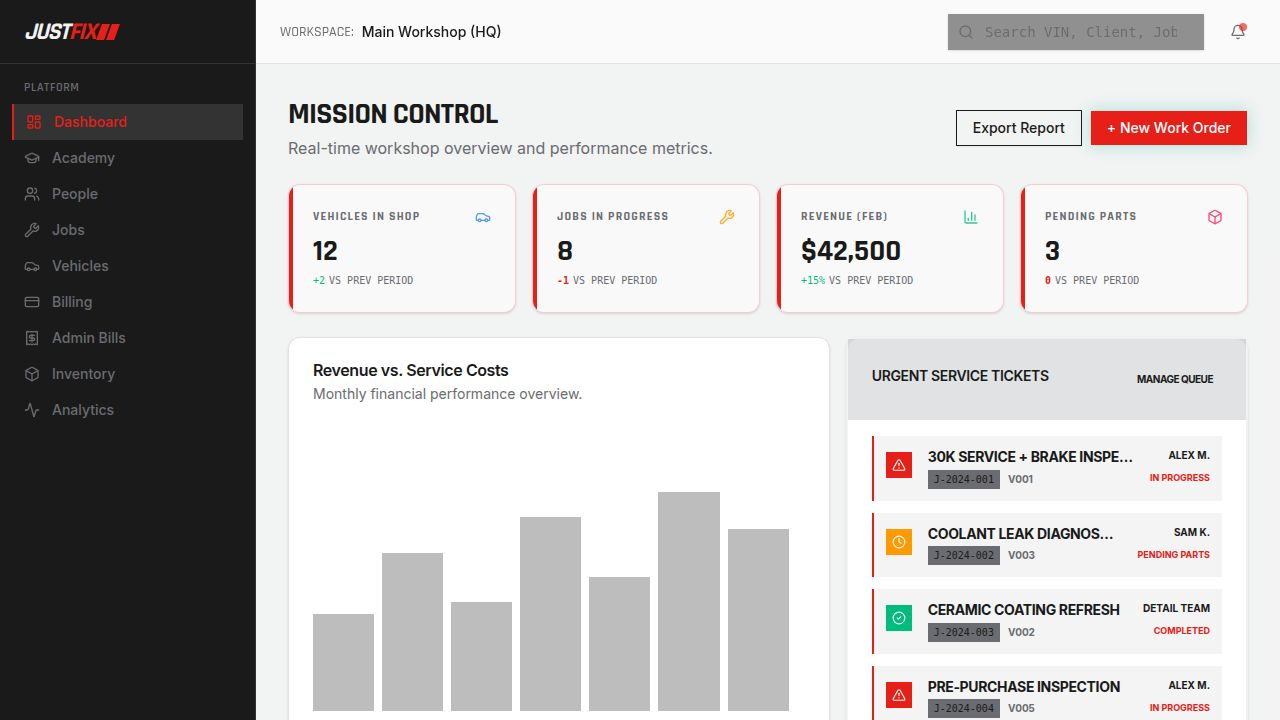
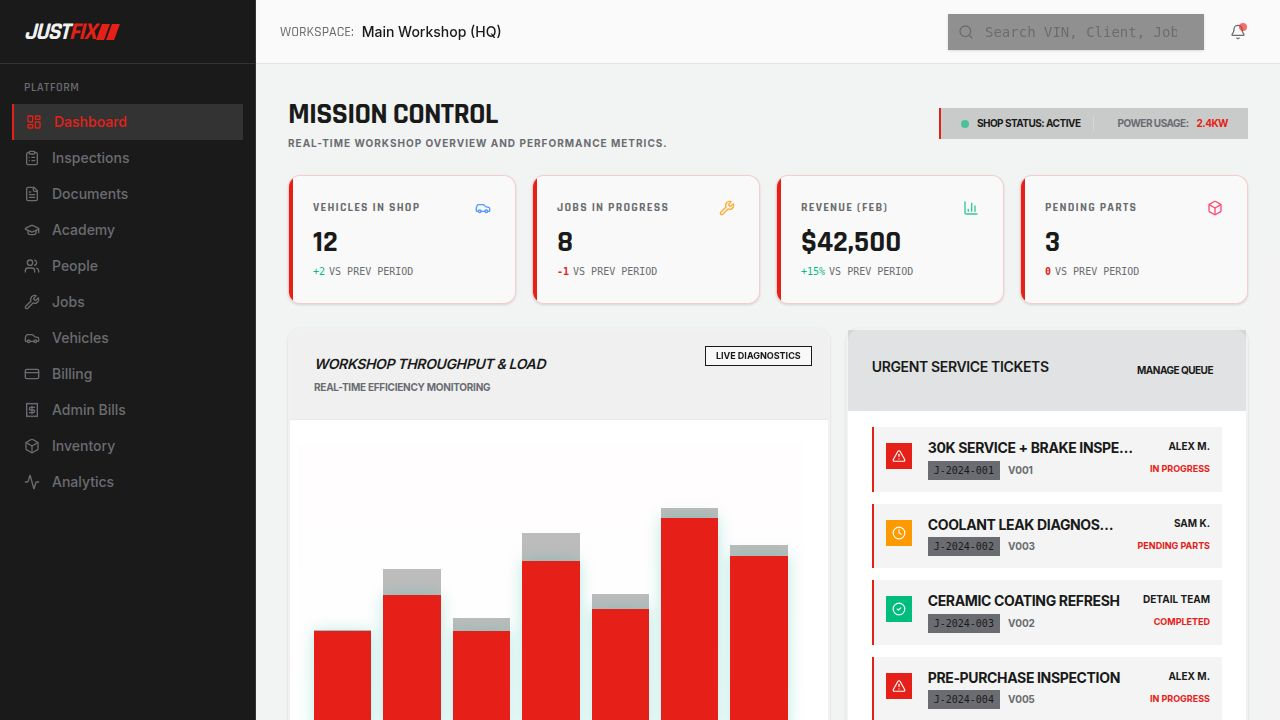
Add digital inspection and document center modules to the system
Introduce new routes and components for Digital Vehicle Inspection (DVI) and Document Center, updating navigation and mock data accordingly.

Replit-Commit-Author: Agent
Replit-Commit-Session-Id: 3f79b57c-9482-46df-af00-5a802f8ab600
Replit-Commit-Checkpoint-Type: full_checkpoint
Replit-Commit-Event-Id: 972d4682-d815-4166-956a-202cfc8e47ad
Replit-Commit-Screenshot-Url: https://storage.googleapis.com/screenshot-production-us-central1/4fc21412-984e-488c-b4b4-e12829776554/3f79b57c-9482-46df-af00-5a802f8ab600/Tv387pn
Replit-Helium-Checkpoint-Created: true

diff --git a/client/src/pages/DVI.tsx b/client/src/pages/DVI.tsx
@@ -1,0 +1,96 @@
+import Layout from "@/components/Layout";
+import { Card, CardContent, CardHeader, CardTitle } from "@/components/ui/card";
+import { Button } from "@/components/ui/button";
+import { Badge } from "@/components/ui/badge";
+import { CheckCircle2, AlertCircle, Camera, Smartphone, Send, ShieldCheck } from "lucide-react";
+
+export default function DVI() {
+  const sections = [
+    { title: "Battery & Electrical", status: "Critical", icon: AlertCircle, items: ["Battery Health", "Alternator Output", "Starter Motor"] },
+    { title: "Lighting System", status: "Good", icon: CheckCircle2, items: ["Headlights", "Indicators", "Brake Lights"] },
+    { title: "Diagnostics", status: "Attention", icon: AlertCircle, items: ["Fault Codes", "Wiring Harness", "Sensor Status"] },
+  ];
+
+  return (
+    <Layout>
+      <div className="flex flex-col md:flex-row md:items-center justify-between gap-4">
+        <div>
+          <h1 className="text-3xl font-display font-bold text-foreground text-glow-red">Digital Inspection</h1>
+          <p className="text-muted-foreground mt-1 uppercase text-[10px] font-bold tracking-widest italic">Technician: Alex Miller • Job: J-2024-001</p>
+        </div>
+        <div className="flex items-center gap-2">
+          <Button variant="outline" className="h-9 industrial-border border-primary/50 text-primary">
+            <Camera className="w-4 h-4 mr-2" /> Capture Media
+          </Button>
+          <Button className="h-9 industrial-border bg-primary text-primary-foreground">
+            <Send className="w-4 h-4 mr-2" /> Send to Client
+          </Button>
+        </div>
+      </div>
+
+      <div className="grid gap-6 md:grid-cols-3">
+        <div className="md:col-span-2 space-y-4">
+          {sections.map((section, i) => (
+            <Card key={i} className="industrial-border overflow-hidden">
+              <CardHeader className="bg-muted/30 flex flex-row items-center justify-between p-4 border-b border-border/50">
+                <CardTitle className="text-sm font-black flex items-center gap-2">
+                  <section.icon className={`w-4 h-4 ${section.status === 'Good' ? 'text-emerald-500' : 'text-primary'}`} />
+                  {section.title.toUpperCase()}
+                </CardTitle>
+                <Badge className={section.status === 'Good' ? 'bg-emerald-500' : 'bg-primary'}>
+                  {section.status}
+                </Badge>
+              </CardHeader>
+              <CardContent className="p-0">
+                <div className="divide-y divide-border/50">
+                  {section.items.map((item, j) => (
+                    <div key={j} className="p-4 flex items-center justify-between hover:bg-muted/5 transition-colors">
+                      <span className="text-sm font-bold uppercase tracking-tight">{item}</span>
+                      <div className="flex gap-2">
+                        <Button size="sm" variant="outline" className="h-7 text-[10px] border-emerald-500/50 text-emerald-500 hover:bg-emerald-500 hover:text-white">GOOD</Button>
+                        <Button size="sm" variant="outline" className="h-7 text-[10px] border-amber-500/50 text-amber-500 hover:bg-amber-500 hover:text-white">MAYBE</Button>
+                        <Button size="sm" variant="outline" className="h-7 text-[10px] border-primary/50 text-primary hover:bg-primary hover:text-white">FAIL</Button>
+                      </div>
+                    </div>
+                  ))}
+                </div>
+              </CardContent>
+            </Card>
+          ))}
+        </div>
+
+        <div className="space-y-4">
+          <Card className="industrial-border bg-black text-white">
+            <CardHeader>
+              <CardTitle className="text-xs font-black text-primary">MEDIA ATTACHMENTS</CardTitle>
+            </CardHeader>
+            <CardContent className="grid grid-cols-2 gap-2">
+              <div className="aspect-square bg-white/10 flex items-center justify-center border border-white/20 group cursor-pointer hover:border-primary transition-all">
+                <Camera className="w-6 h-6 opacity-20 group-hover:opacity-100 group-hover:text-primary transition-all" />
+              </div>
+              <div className="aspect-square bg-white/10 flex items-center justify-center border border-white/20 group cursor-pointer hover:border-primary transition-all">
+                <Camera className="w-6 h-6 opacity-20 group-hover:opacity-100 group-hover:text-primary transition-all" />
+              </div>
+            </CardContent>
+          </Card>
+
+          <Card className="industrial-border border-primary">
+            <CardHeader className="bg-primary/10">
+              <CardTitle className="text-xs font-black text-primary">CLIENT APPROVAL HUB</CardTitle>
+            </CardHeader>
+            <CardContent className="p-4 space-y-4">
+              <div className="flex items-center gap-3 p-3 bg-secondary/10 border-l-2 border-l-primary">
+                <Smartphone className="w-4 h-4 text-primary" />
+                <p className="text-[10px] font-bold uppercase leading-tight">SMS Approval Link Active</p>
+              </div>
+              <div className="flex items-center gap-3 p-3 bg-secondary/10 border-l-2 border-l-emerald-500">
+                <ShieldCheck className="w-4 h-4 text-emerald-500" />
+                <p className="text-[10px] font-bold uppercase leading-tight">Insurance Claim Pre-Authorized</p>
+              </div>
+            </CardContent>
+          </Card>
+        </div>
+      </div>
+    </Layout>
+  );
+}

diff --git a/client/src/pages/DocumentCenter.tsx b/client/src/pages/DocumentCenter.tsx
@@ -1,0 +1,85 @@
+import Layout from "@/components/Layout";
+import { Card, CardContent, CardHeader, CardTitle } from "@/components/ui/card";
+import { Button } from "@/components/ui/button";
+import { FileText, Download, ShieldCheck, Award, Share2 } from "lucide-react";
+
+export default function DocumentCenter() {
+  const docs = [
+    { title: "Technician Certification - Level 1", student: "Jordan Lee", date: "2024-02-10", type: "Certificate", icon: Award },
+    { title: "Internship Completion Letter", student: "Taylor Reed", date: "2024-02-12", type: "Document", icon: FileText },
+    { title: "Insurance Compliance Audit", student: "Admin", date: "2024-02-14", type: "Compliance", icon: ShieldCheck },
+  ];
+
+  return (
+    <Layout>
+      <div className="flex flex-col md:flex-row md:items-center justify-between gap-4">
+        <div>
+          <h1 className="text-3xl font-display font-bold text-foreground">Document Center</h1>
+          <p className="text-muted-foreground mt-1 uppercase text-[10px] font-bold tracking-widest">Digital Archive & Automated Document Generation</p>
+        </div>
+      </div>
+
+      <div className="grid gap-6">
+        <Card className="industrial-border">
+          <CardHeader className="bg-muted/30 border-b border-border/50">
+            <CardTitle className="text-sm font-black italic">RECENTLY GENERATED DOCUMENTS</CardTitle>
+          </CardHeader>
+          <CardContent className="p-0">
+            <div className="divide-y divide-border/50">
+              {docs.map((doc, i) => (
+                <div key={i} className="p-4 flex items-center justify-between hover:bg-muted/5 transition-colors">
+                  <div className="flex items-center gap-4">
+                    <div className="w-10 h-10 bg-secondary flex items-center justify-center border-l-2 border-l-primary">
+                      <doc.icon className="w-5 h-5 opacity-50" />
+                    </div>
+                    <div>
+                      <p className="font-bold text-sm uppercase tracking-tight">{doc.title}</p>
+                      <p className="text-[10px] text-muted-foreground font-mono">{doc.student} • {doc.date}</p>
+                    </div>
+                  </div>
+                  <div className="flex items-center gap-2">
+                    <Button variant="outline" size="sm" className="h-8 text-[10px] font-black uppercase tracking-tighter hover:bg-primary hover:text-white">
+                      <Download className="w-3.5 h-3.5 mr-1.5" /> DOWNLOAD
+                    </Button>
+                    <Button variant="ghost" size="icon" className="h-8 w-8 hover:text-primary">
+                      <Share2 className="w-4 h-4" />
+                    </Button>
+                  </div>
+                </div>
+              ))}
+            </div>
+          </CardContent>
+        </Card>
+
+        <div className="grid md:grid-cols-3 gap-4">
+          <Card className="industrial-border bg-black text-white p-6 flex flex-col items-center justify-center text-center space-y-4">
+            <Award className="w-12 h-12 text-primary animate-pulse" />
+            <div>
+              <h3 className="text-lg font-black uppercase tracking-tighter">Issue Certificate</h3>
+              <p className="text-[10px] font-bold text-muted-foreground uppercase mt-1">Generate verifiable digital certificates for students</p>
+            </div>
+            <Button className="w-full bg-primary text-white font-black text-xs uppercase tracking-widest">START GENERATOR</Button>
+          </Card>
+          
+          <Card className="industrial-border p-6 flex flex-col items-center justify-center text-center space-y-4">
+            <FileText className="w-12 h-12 text-muted-foreground" />
+            <div>
+              <h3 className="text-lg font-black uppercase tracking-tighter">Placement Letter</h3>
+              <p className="text-[10px] font-bold text-muted-foreground uppercase mt-1">Automated student placement & internship letters</p>
+            </div>
+            <Button variant="outline" className="w-full font-black text-xs uppercase tracking-widest border-2">GENERATE LETTER</Button>
+          </Card>
+
+          <Card className="industrial-border p-6 flex flex-col items-center justify-center text-center space-y-4 border-emerald-500/20">
+            <ShieldCheck className="w-12 h-12 text-emerald-500" />
+            <div>
+              <h3 className="text-lg font-black uppercase tracking-tighter">Compliance Report</h3>
+              <p className="text-[10px] font-bold text-muted-foreground uppercase mt-1">Audit-ready insurance & workshop compliance docs</p>
+            </div>
+            <Button variant="outline" className="w-full font-black text-xs uppercase tracking-widest border-2 border-emerald-500/20 hover:bg-emerald-500 hover:text-white">AUDIT REPORT</Button>
+          </Card>
+        </div>
+      </div>
+    </Layout>
+  );
+}

diff --git a/client/src/App.tsx b/client/src/App.tsx
@@ -16,6 +16,9 @@ import Analytics from "@/pages/Analytics";
 import Academy from "@/pages/Academy";
 import AdminBills from "@/pages/AdminBills";
 
+import DVI from "@/pages/DVI";
+import DocumentCenter from "@/pages/DocumentCenter";
+
 function Router() {
   return (
     <Switch>
@@ -27,13 +30,14 @@ function Router() {
       <Route path="/billing" component={Billing} />
       <Route path="/academy" component={Academy} />
       <Route path="/admin-bills" component={AdminBills} />
+      <Route path="/dvi" component={DVI} />
+      <Route path="/documents" component={DocumentCenter} />
       <Route path="/communication" component={Communication} />
       <Route path="/analytics" component={Analytics} />
       
       {/* Fallback routes for demos */}
       <Route path="/people" component={ClientDirectory} />
       <Route path="/schedule" component={Dashboard} />
-      <Route path="/documents" component={Academy} />
       
       <Route component={NotFound} />
     </Switch>

diff --git a/client/src/lib/mockData.ts b/client/src/lib/mockData.ts
@@ -64,6 +64,8 @@ export const stats = [
 
 export const navItems = [
   { icon: LayoutDashboard, label: "Dashboard", href: "/" },
+  { icon: ClipboardList, label: "Inspections", href: "/dvi" },
+  { icon: FileText, label: "Documents", href: "/documents" },
   { icon: GraduationCap, label: "Academy", href: "/academy" },
   { icon: Users, label: "People", href: "/people" },
   { icon: Wrench, label: "Jobs", href: "/jobs" },
